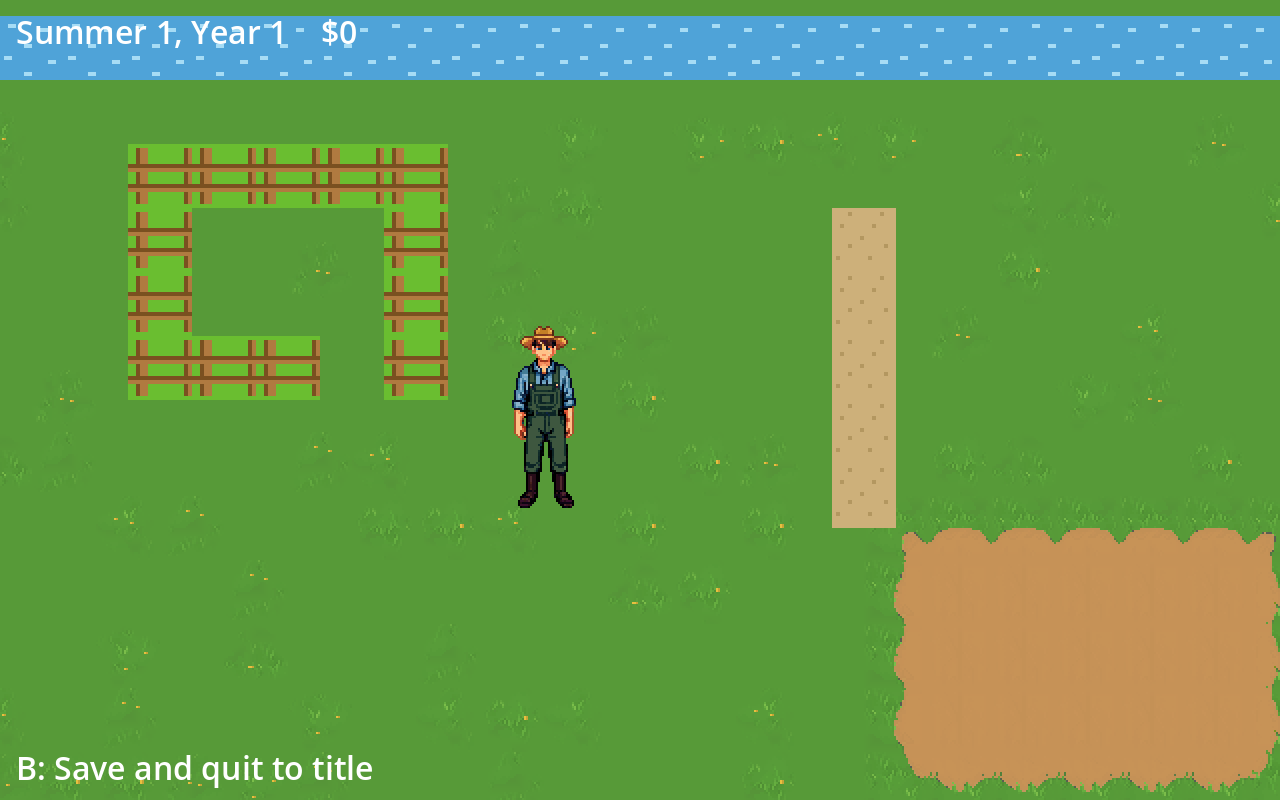
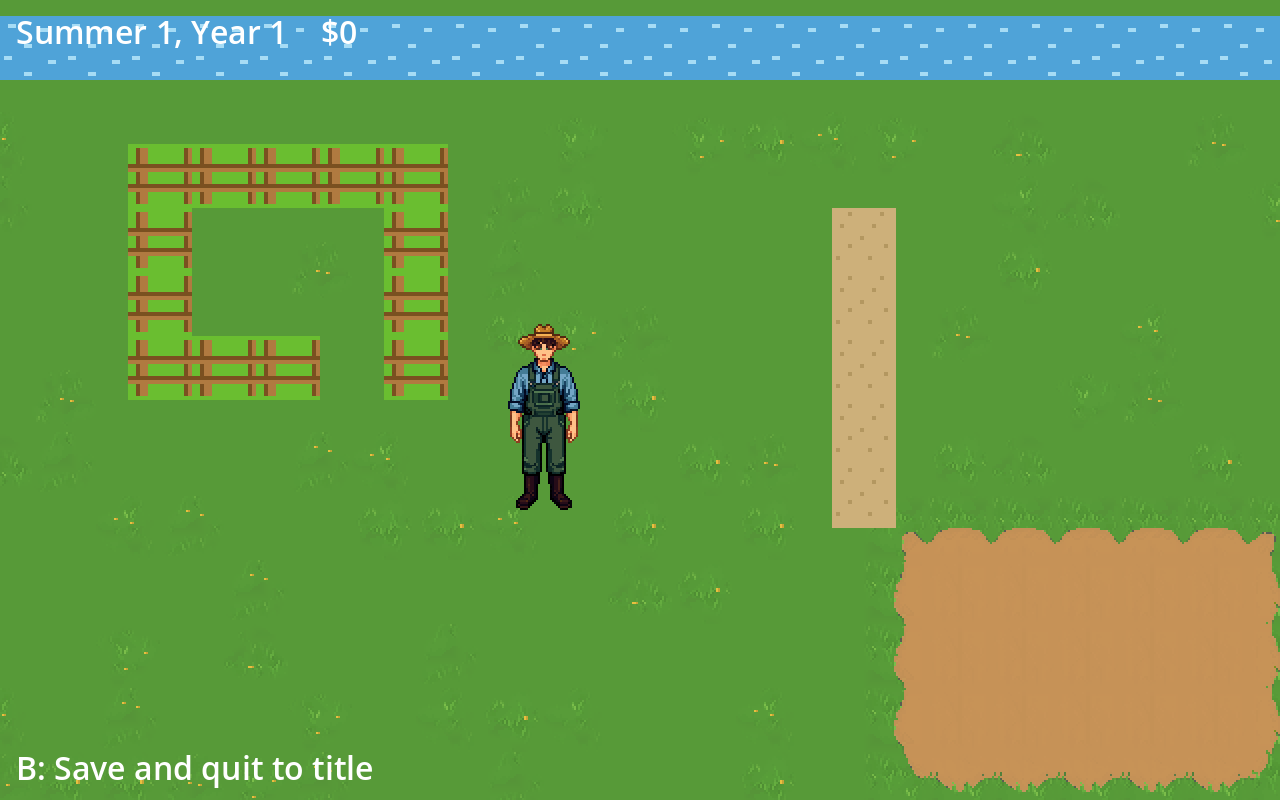
Farmer rests on the standing frame with a breathing bob; winter highlights and autumn tan toned down
Claude-Session: https://claude.ai/code/session_01DZoCGNTKvTqdtWPybs567b

Changed region(s): [[0.375, 0.4062, 0.4688, 0.625]]

diff --git a/tools/art/tiles_post.py b/tools/art/tiles_post.py
@@ -132,6 +132,9 @@ def season_style(tiles: dict, lower: np.ndarray, upper: np.ndarray, style: dict)
         if style.get("blades"):
             target = hex_colour(style["blades"])
             rgb = np.where(blades[..., None], rgb * 0.15 + target * 0.85, rgb)
+        if style.get("highlight_soften"):
+            amount = style["highlight_soften"]
+            rgb = np.where(blades[..., None], rgb * (1 - amount) + lower * amount, rgb)
         if style.get("shadow_soften"):
             amount = style["shadow_soften"]
             rgb = np.where(shadows[..., None], rgb * (1 - amount) + lower * amount, rgb)

diff --git a/tools/art/README.md b/tools/art/README.md
@@ -15,7 +15,7 @@ Declare the character in `bodies.json` (prompt, canvas size as one number or `[w
 3. `art.py rotate <name>` — turns the approved design into a stored PixelLab character with 8 rotations and downloads the declared directions. Preview: `<name>-rotations.png`.
 4. `art.py animate <name> [animation] [--direction d]` — one job per direction per animation; `--direction` redoes one direction and keeps the rest. Preview: `<name>-<animation>.png`, frames numbered.
 5. Judge and trim — inspect each sheet; record the frames to keep with `art.py trim <name> <animation> <direction|all> <from> <to>`. Tail frames are the usual failure.
-6. `art.py import <name>` — writes `assets/characters/<name>/<animation>.png` (rows are directions) and `assets/characters/<name>/<name>.tres`, a SpriteFrames whose animations are named `<animation>_<direction>` plus `stand_<direction>` from the rotations.
+6. `art.py import <name>` — writes `assets/characters/<name>/<animation>.png` (rows are directions) and `assets/characters/<name>/<name>.tres`, a SpriteFrames whose animations are named `<animation>_<direction>` plus `stand_<direction>` from the rotations (the resting pose; template idles re-render the body per frame and flicker).
 7. Wire — an `AnimatedSprite2D` in the character's scene plays animations by name.
 
 ## What works
